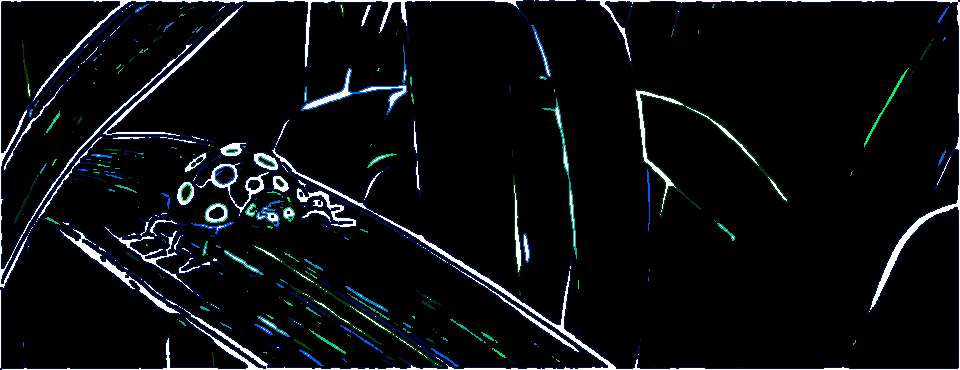
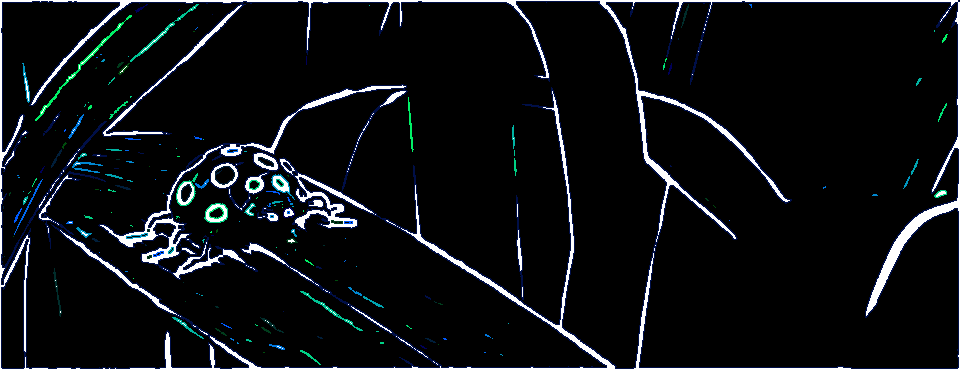
Re-updated images Fixed bug with commandline interface

diff --git a/Image_Edge_Detection/main.cpp b/Image_Edge_Detection/main.cpp
@@ -76,6 +76,8 @@ int main(int argc, char* argv[])
 	Image* my_png = new Image();
 	Object_Detector* my_object_detector = new Object_Detector(my_png);
 
+    set_config(argc, argv);
+
 	std::cout<< "Edge detection started.\n";
 
 	bool decoded = my_png->Decode_From_Disk(file);
